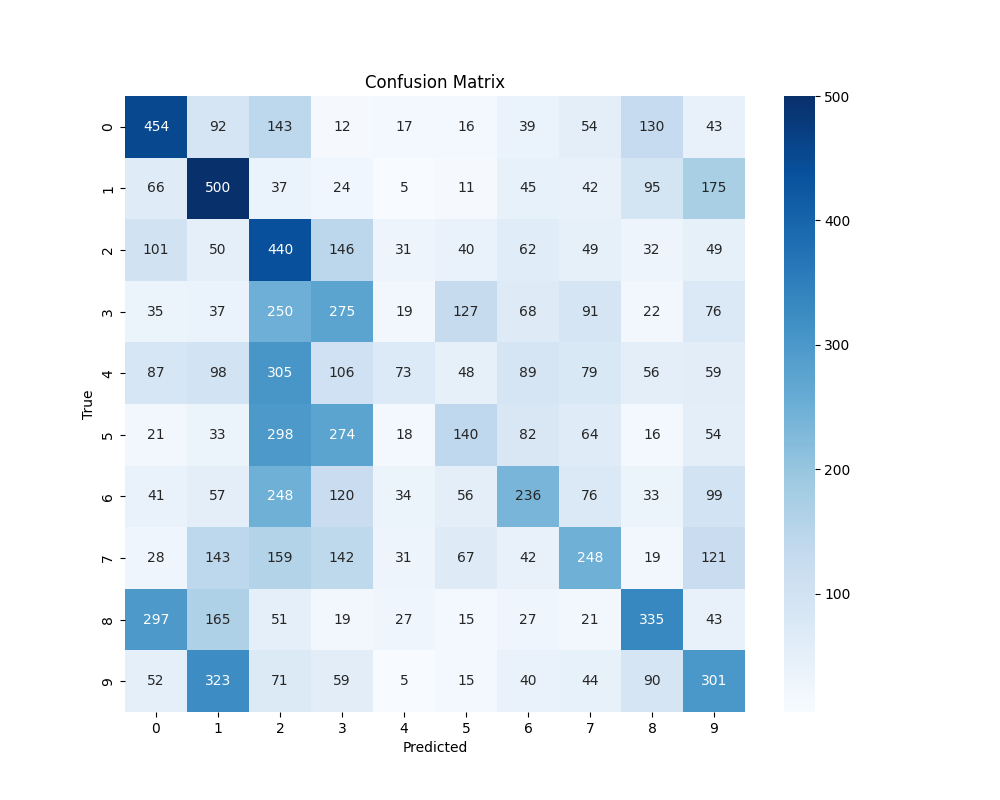
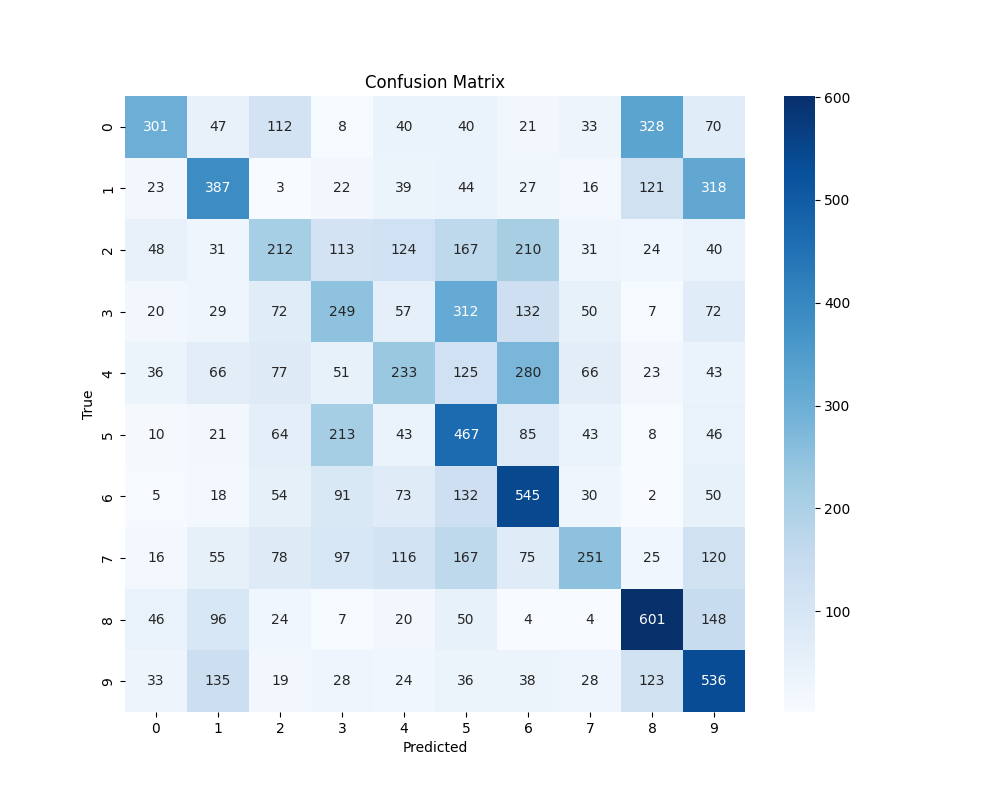
Update SimCLR

diff --git a/SimCLR/main.py b/SimCLR/main.py
@@ -1,69 +1,69 @@
 import torch.nn as nn, torch.optim as optim, torch
 from utlis import load_cifar10_subset, pretrain, get_augmentations, test_model
-from modules import SimCLRModel, Classifier, SimCLRDataset, NTXentCrossEntropyLoss
+from modules import SimCLRModel, Classifier, SimCLRDataset, NTXentCrossEntropyLoss, NTXentLoss
 from torchvision.models import resnet18
 from torch.utils.data import DataLoader
 
 train_set, test_set = load_cifar10_subset("datasets", 10, 0.1)
 
 encoder = resnet18()
-encoder = nn.Sequential(*list(encoder.children())[:-1])
+encoder.fc = nn.Identity()
 
-# model = SimCLRModel(encoder, 128).to("cuda")
+model = SimCLRModel(encoder, 512).to("cuda:0")
 
-# train_set = SimCLRDataset(train_set, get_augmentations())
-# test_set = SimCLRDataset(test_set, get_augmentations())
+train_set = SimCLRDataset(train_set, get_augmentations())
+test_set = SimCLRDataset(test_set, get_augmentations())
 train_loader = DataLoader(train_set, 32, True)
 test_loader = DataLoader(test_set, 32, True)
 
-# optimizer = optim.Adam(model.parameters(), 0.001)
-# criterion = NTXentCrossEntropyLoss()
+optimizer = optim.Adam(model.parameters(), 3e-4)
+criterion = NTXentCrossEntropyLoss()
 
-# pretrain(model, train_loader, test_loader, optimizer, criterion, 50, 10, "cuda")
+pretrain(model, train_loader, test_loader, optimizer, criterion, 50, 10, "cuda:0")
 
-pretrained_model = SimCLRModel(encoder, 128)
-pretrained_model.load_state_dict(torch.load("checkpoint.pth", weights_only=False)["model_state_dict"])
-for param in pretrained_model.parameters():
-    param.requires_grad = False
+# pretrained_model = SimCLRModel(encoder, 512)
+# pretrained_model.load_state_dict(torch.load("checkpoint.pth", weights_only=False)["model_state_dict"])
+# for param in pretrained_model.parameters():
+#     param.requires_grad = False
 
-classifier = Classifier(encoder, out_features=10)
-classifier = classifier.to("cuda")
+# classifier = Classifier(encoder, out_features=10)
+# classifier = classifier.to("cuda:0")
 
-criterion = nn.CrossEntropyLoss()
-optimizer = optim.Adam(classifier.parameters(), 0.001)
+# criterion = nn.CrossEntropyLoss()
+# optimizer = optim.Adam(classifier.parameters(), 0.001)
 
-total_loss = 0
-classifier.train()
-for epoch in range(200):
-    total_loss = 0.0
-    total_correct = 0
-    total_samples = 0
+# total_loss = 0
+# classifier.train()
+# for epoch in range(100):
+#     total_loss = 0.0
+#     total_correct = 0
+#     total_samples = 0
 
-    classifier.train()
-    for images, labels in train_loader:
-        images, labels = images.to("cuda"), labels.to("cuda")
+#     classifier.train()
+#     for images, labels in train_loader:
+#         images, labels = images.to("cuda:0"), labels.to("cuda:0")
 
-        # 前向传播
-        outputs = classifier(images)
-        loss = criterion(outputs, labels)
+#         # 前向传播
+#         outputs = classifier(images)
+#         loss = criterion(outputs, labels)
 
-        # 反向传播
-        optimizer.zero_grad()
-        loss.backward()
-        optimizer.step()
+#         # 反向传播
+#         optimizer.zero_grad()
+#         loss.backward()
+#         optimizer.step()
 
-        # 累计损失和正确率
-        total_loss += loss.item() * images.size(0)
-        predicted = torch.argmax(outputs, dim=1)
-        total_correct += (predicted == labels).sum().item()
-        total_samples += labels.size(0)
+#         # 累计损失和正确率
+#         total_loss += loss.item() * images.size(0)
+#         predicted = torch.argmax(outputs, dim=1)
+#         total_correct += (predicted == labels).sum().item()
+#         total_samples += labels.size(0)
 
-    # 计算平均指标
-    avg_loss = total_loss / total_samples
-    accuracy = total_correct / total_samples
+#     # 计算平均指标
+#     avg_loss = total_loss / total_samples
+#     accuracy = total_correct / total_samples
 
-    # 打印日志
-    print(f"Epoch {epoch+1}/100 | Loss: {avg_loss:.4f} | Accuracy: {accuracy:.4f}")
+#     # 打印日志
+#     print(f"Epoch {epoch+1}/100 | Loss: {avg_loss:.4f} | Accuracy: {accuracy:.4f}")
 
-test_loader = DataLoader(test_set, batch_size=32)
-test_model(classifier, test_loader, "cuda")
+# test_loader = DataLoader(test_set, batch_size=32)
+# test_model(classifier, test_loader, "cuda:0")

diff --git a/SimCLR/utlis.py b/SimCLR/utlis.py
@@ -48,40 +48,63 @@ def load_cifar10_subset(path, subset_classes=10, train_percent=0.1, seed=42):
 
     return train_subset, test_subset
 
+# def get_augmentations(normalize=True):
+#     """
+#     定义SimCLR数据增强
+#     参数:
+#         normalize: 是否添加Normalize
+#     返回:
+#         augmentation: 数据增强操作
+#     """
+#     transform_list = [
+#         # 1. 随机调整大小并裁剪到32x32
+#         transforms.RandomResizedCrop(size=32),
+#         # 2. 以0.5的概率水平翻转图像
+#         transforms.RandomHorizontalFlip(p=0.5),
+#         # 3. 以0.8的概率应用颜色抖动
+#         # 4. 以0.2的概率转换为灰度图
+#         transforms.ToTensor(),
+#     ]
+#     if normalize:
+#         transform_list.append(
+#             transforms.Normalize(  # cifar-10数据集的均值和标准差
+#                 (0.4914, 0.4822, 0.4465), (0.2023, 0.1994, 0.2010)
+#             )
+#         )
+#     return transforms.Compose(transform_list)
 
-def get_augmentations():
-    return transforms.Compose(
-        [
-            # 1. 随机裁剪并缩放（空间增强）
-            transforms.RandomResizedCrop(
-                size=32,
-                scale=(0.2, 1.0),
-                ratio=(0.75, 1.33),
-                interpolation=InterpolationMode.BILINEAR,
-            ),
-            # 2. 随机水平翻转（概率 50%）
-            transforms.RandomHorizontalFlip(p=0.5),
-            # 3. 颜色抖动（整体概率 80%，参数强度与论文一致）
-            transforms.RandomApply(
-                [
-                    transforms.ColorJitter(
-                        brightness=0.4,
-                        contrast=0.4,
-                        saturation=0.4,
-                        hue=0.4,
-                    )
-                ],
-                p=0.8,
-            ),
-            transforms.RandomGrayscale(p=0.2),
-            transforms.GaussianBlur(kernel_size=5, sigma=(0.1, 2.0)),
-            transforms.ToTensor(),
+def get_augmentations(normalize: bool = True):
+    transform_list = [
+        transforms.RandomResizedCrop(
+            size=32,
+            scale=(0.2, 1.0),
+            ratio=(0.75, 1.33),
+            interpolation=InterpolationMode.BILINEAR,
+        ),
+        transforms.RandomHorizontalFlip(p=0.5),
+        transforms.RandomApply(
+            [
+                transforms.ColorJitter(
+                    brightness=0.2,
+                    contrast=0.2,
+                    saturation=0.2,
+                    hue=0.2,
+                )
+            ],
+            p=0.8,
+        ),
+        transforms.RandomGrayscale(p=0.2),
+        transforms.GaussianBlur(kernel_size=5, sigma=(0.1, 2.0)),
+        transforms.ToTensor(),
+    ]
+    if normalize is True:
+        transform_list.append(
             transforms.Normalize(
                 mean=(0.4914, 0.4822, 0.4465),
                 std=(0.2023, 0.1994, 0.2010),
             ),
-        ]
-    )
+        )
+    return transforms.Compose(transform_list)
 
 
 # 修改点：保存完整训练状态

diff --git a/SimCLR/modules.py b/SimCLR/modules.py
@@ -27,6 +27,28 @@ class NTXentCrossEntropyLoss(nn.Module):
         return -torch.log(
             sim_mat[i][j] / (torch.sum(sim_mat[i, :]) - sim_mat[i, i] + 1e-8)
         )
+    
+class NTXentLoss(nn.Module):
+    def __init__(self, temperature=0.5):
+        super(NTXentLoss, self).__init__()
+        self.temperature = temperature
+        self.criterion = nn.CrossEntropyLoss(reduction="sum")
+    
+    def forward(self, z_i, z_j):
+        batch_size = z_i.size(0)
+        
+        z = torch.cat([z_i, z_j], dim=0)  # [2N, D]
+        sim_matrix = torch.exp(torch.mm(z, z.t()) / self.temperature)  # [2N, 2N]
+
+        mask = torch.eye(2 * batch_size, dtype=torch.bool, device=z.device)
+        mask = mask ^ 1
+        
+        pos_sim = torch.exp(torch.sum(z_i * z_j, dim=-1) / self.temperature)
+        pos_sim = torch.cat([pos_sim, pos_sim], dim=0)  # [2N]
+        neg_sim = torch.sum(sim_matrix * mask, dim=-1)  # [2N]
+        
+        loss = -torch.log(pos_sim / (pos_sim + neg_sim)).mean()
+        return loss
 
 
 class SimCLRModel(nn.Module):
@@ -41,13 +63,14 @@ class SimCLRModel(nn.Module):
             nn.Linear(512, 512),
             nn.BatchNorm1d(512),
             nn.ReLU(),
+            nn.Dropout(0.1),
             nn.Linear(512, projection_dim),
         )
 
     def forward(self, inputs: torch.Tensor):
         batch_size, channel, height, width = inputs.shape
         features = self.encoder(inputs)
-        features = features.view(batch_size, -1)
+        # features = features.view(batch_size, -1)
         projections = self.projection_head(features)
         return features, projections
 
@@ -56,17 +79,15 @@ class Classifier(nn.Module):
     def __init__(self, encoder: nn.Module, out_features: int):
         super(Classifier, self).__init__()
         self.encodr = encoder
-        self.classification_head = nn.Sequential(
-            nn.Linear(512, out_features),
-            nn.Sigmoid()
-        )
+        self.classification_head = nn.Sequential(nn.Linear(512, out_features))
 
     def forward(self, inputs: torch.Tensor):
         batch_size, channel, height, width = inputs.shape
-        features = self.encodr(inputs)
-        features = features.view(batch_size, -1)
+        with torch.no_grad():
+            features = self.encodr(inputs)
+        # features = features.view(batch_size, -1)
         out = self.classification_head(features)
-        return out
+        return F.softmax(out, dim=1)
 
 
 class SimCLRDataset(Dataset):
